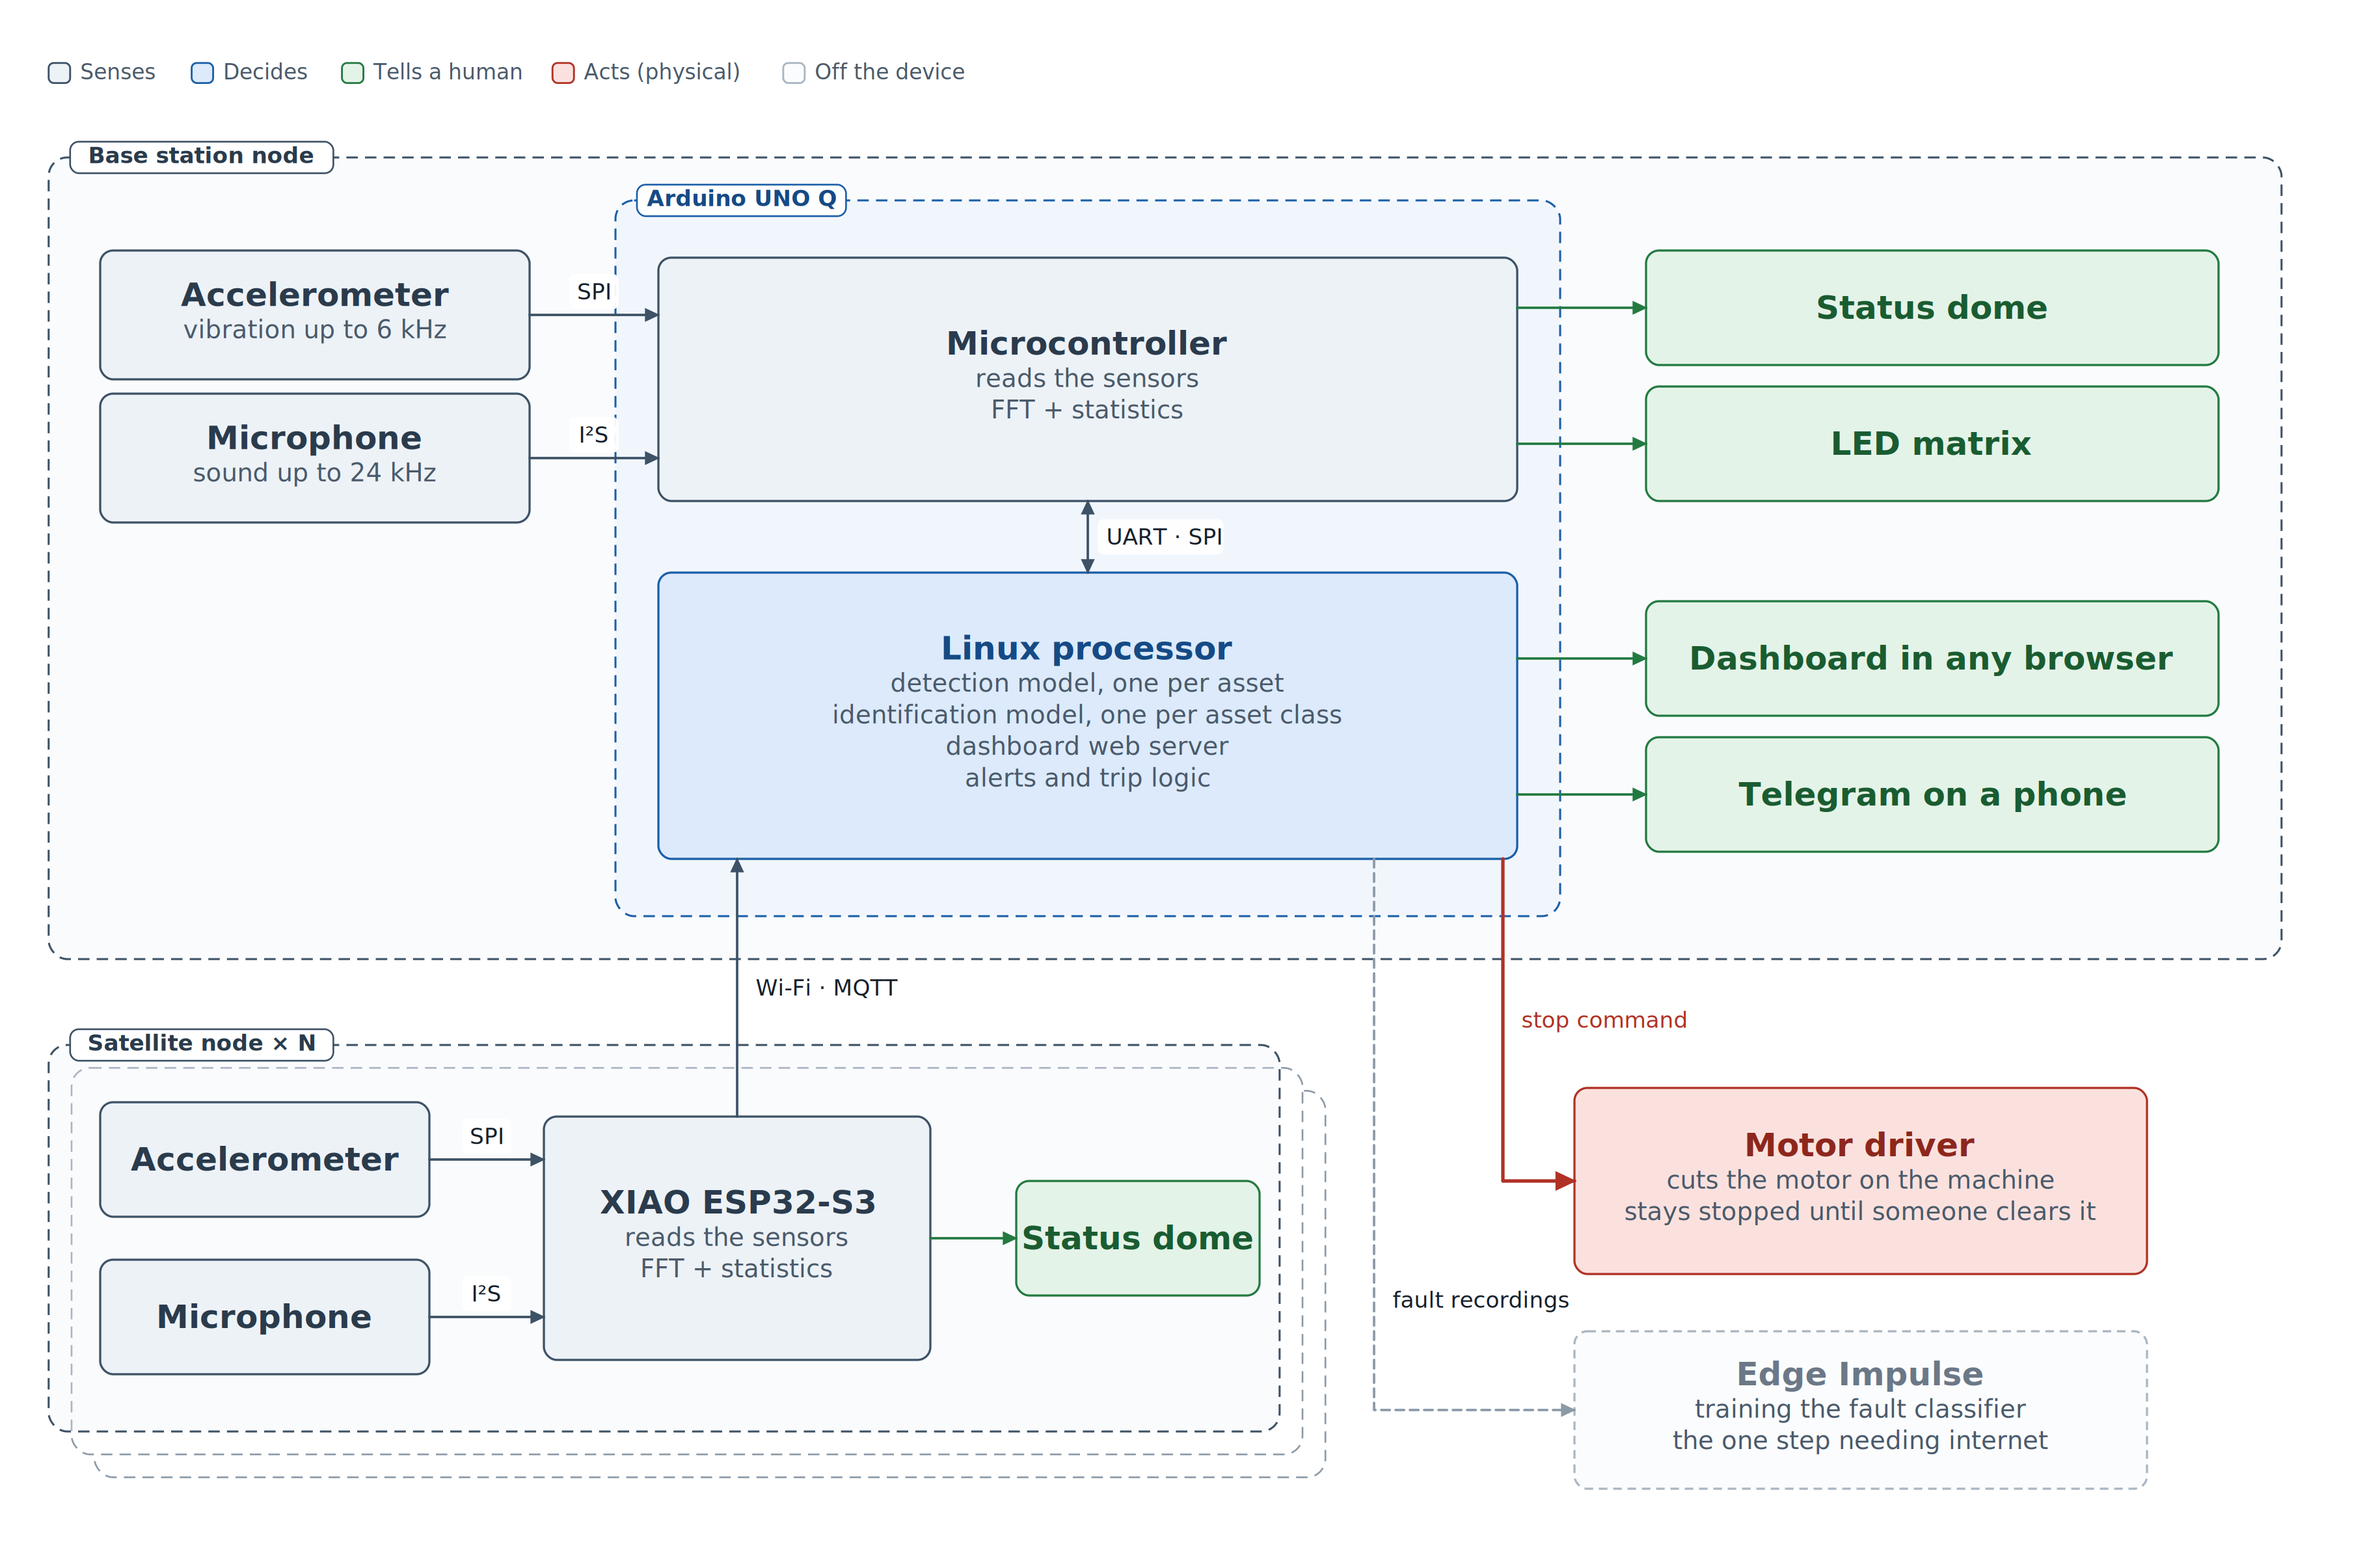
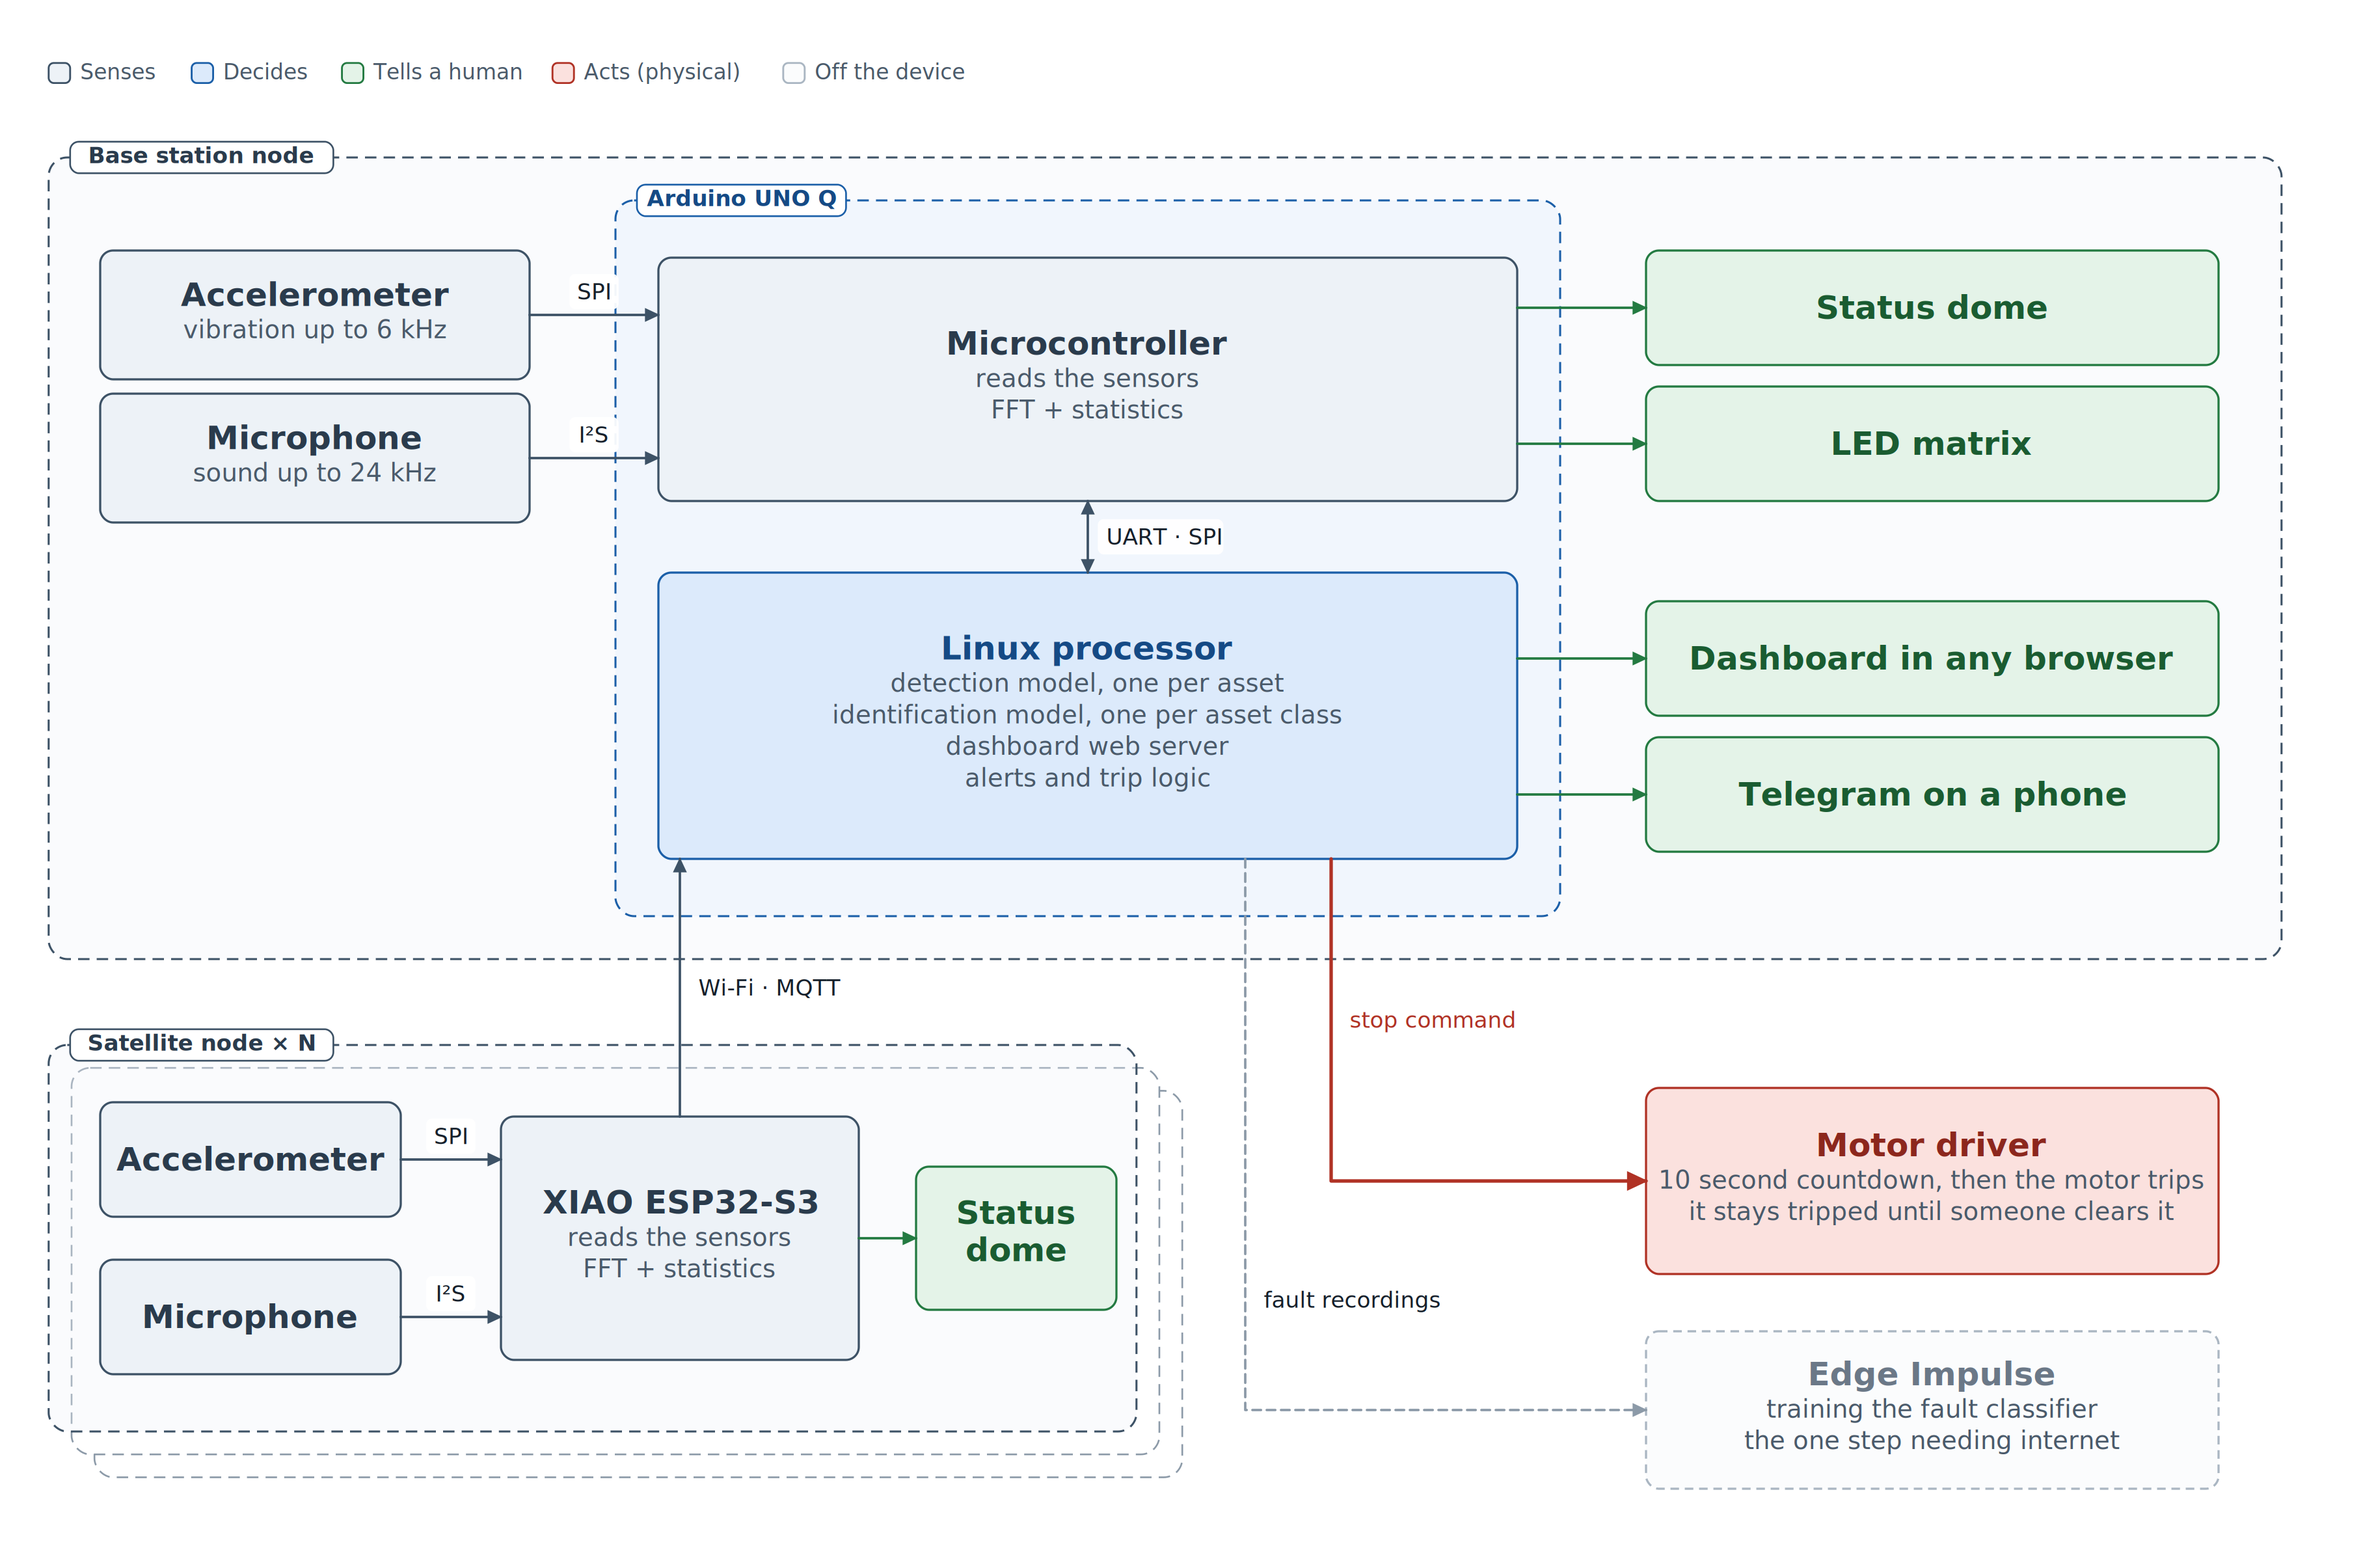
diagrams: variant B, align the outputs and move the stop lane inboard
The stop and Edge Impulse lanes now leave the Linux box well inside its right
edge, the motor driver and Edge Impulse share the output column's x so every
consequence sits on one vertical line, the motor driver carries the countdown
and latch wording again, and the satellite's dome is titled over two lines.

diff --git a/report/diagrams/gen/d17_system_overview_alt.py b/report/diagrams/gen/d17_system_overview_alt.py
@@ -11,7 +11,7 @@ import os
 import sys
 
 sys.path.insert(0, os.path.dirname(os.path.abspath(__file__)))
-from diagram_lib import Canvas, save  # noqa: E402
+from diagram_lib import Canvas, ROLES, save  # noqa: E402
 
 c = Canvas(
     1660, 1080,
@@ -59,36 +59,47 @@ for y in (460, 555):
     c.link([(1060, y), (1150, y)], kind="arrowTell")
 
 # --------------------------------------------------------- satellite node
+# Narrower than the base station so both the stop and the Edge Impulse lanes
+# have clear air to run down, well inside the Linux box rather than along its
+# right-hand edge.
 for off in (32, 16):
-    c.raw(f'<rect x="{34 + off}" y="{730 + off}" width="860" height="270" rx="13" '
+    c.raw(f'<rect x="{34 + off}" y="{730 + off}" width="760" height="270" rx="13" '
           f'fill="#FFFFFF" stroke="#8C9AA8" stroke-width="1.2" '
           f'stroke-dasharray="8,5"/>')
-c.group(34, 730, 860, 270, "Satellite node × N", role="sense")
+c.group(34, 730, 760, 270, "Satellite node × N", role="sense")
 
-c.box(70, 770, 230, 80, "Accelerometer", role="sense", title_size=TITLE)
-c.box(70, 880, 230, 80, "Microphone", role="sense", title_size=TITLE)
-c.box(380, 780, 270, 170, "XIAO ESP32-S3",
+c.box(70, 770, 210, 80, "Accelerometer", role="sense", title_size=TITLE)
+c.box(70, 880, 210, 80, "Microphone", role="sense", title_size=TITLE)
+c.box(350, 780, 250, 170, "XIAO ESP32-S3",
       ["reads the sensors", "FFT + statistics"],
       role="sense", title_size=TITLE, body_size=BODY)
-c.box(710, 825, 170, 80, "Status dome", role="tell", title_size=TITLE)
 
-c.link([(300, 810), (380, 810)], label="SPI", label_size=12)
-c.link([(300, 920), (380, 920)], label="I²S", label_size=12)
-c.link([(650, 865), (710, 865)], kind="arrowTell")
-c.link([(515, 780), (515, 600)], label="Wi-Fi · MQTT", label_size=12)
+# Two lines of title, so a narrow box does not have to carry one long word
+# pair across its whole width.
+c.box(640, 815, 140, 100, "", role="tell")
+for i, word in enumerate(("Status", "dome")):
+    c.text(710, 855 + i * 26, word, size=TITLE, weight="bold", anchor="middle",
+           fill=ROLES["tell"][2])
+
+c.link([(280, 810), (350, 810)], label="SPI", label_size=12)
+c.link([(280, 920), (350, 920)], label="I²S", label_size=12)
+c.link([(600, 865), (640, 865)], kind="arrowTell")
+c.link([(475, 780), (475, 600)], label="Wi-Fi · MQTT", label_size=12)
 
 # ------------------------------------------------- what is not a node yet
-c.box(1100, 760, 400, 130, "Motor driver",
-      ["cuts the motor on the machine",
-       "stays stopped until someone clears it"],
+# Both boxes share the output column's x, so every consequence of a frame,
+# green or red or grey, sits on one vertical line.
+c.box(1150, 760, 400, 130, "Motor driver",
+      ["10 second countdown, then the motor trips",
+       "it stays tripped until someone clears it"],
       role="act", title_size=TITLE, body_size=BODY)
-c.link([(1050, 600), (1050, 825), (1100, 825)], label="stop command",
+c.link([(930, 600), (930, 825), (1150, 825)], label="stop command",
        kind="arrowAct", width=2.4, label_size=12, label_seg=0)
 
-c.box(1100, 930, 400, 110, "Edge Impulse",
+c.box(1150, 930, 400, 110, "Edge Impulse",
       ["training the fault classifier", "the one step needing internet"],
       role="ghost", title_size=TITLE, body_size=BODY, dashed=True)
-c.link([(960, 600), (960, 985), (1100, 985)], label="fault recordings",
+c.link([(870, 600), (870, 985), (1150, 985)], label="fault recordings",
        kind="arrowSoft", dashed=True, label_size=12, label_seg=0, label_at=0.8)
 
 save(c, "17-system-overview-alt")
